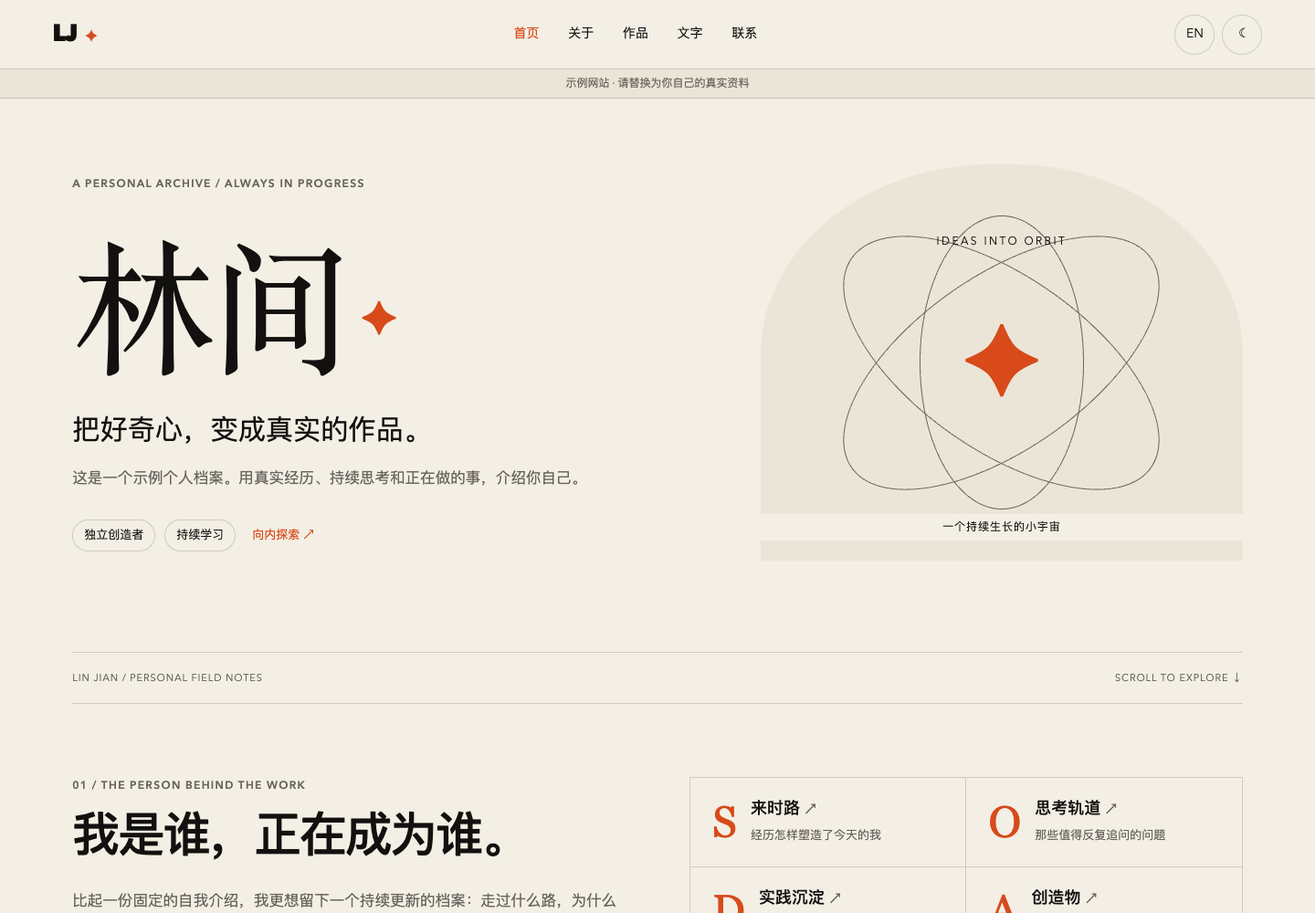
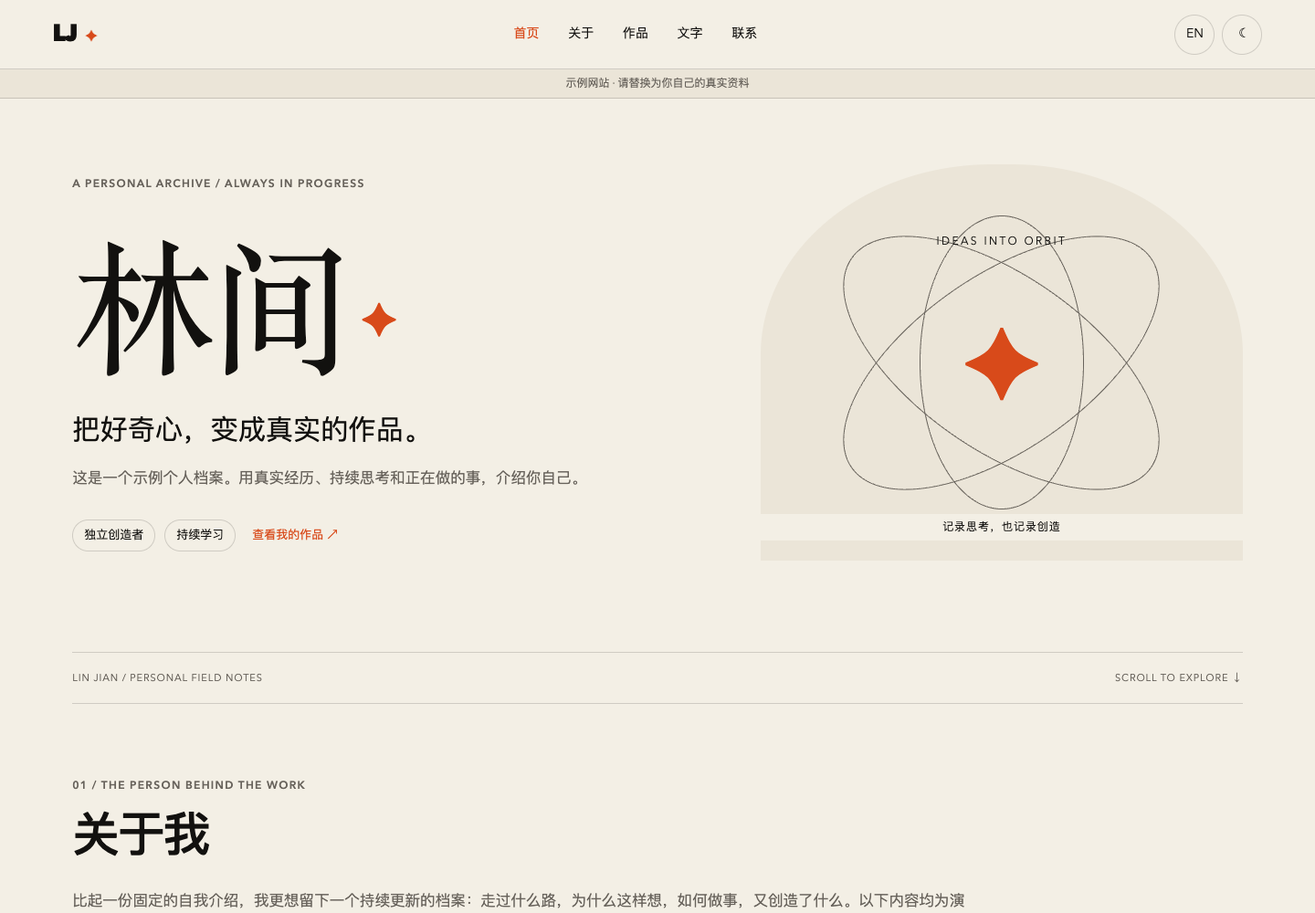
去掉默认网站的 SODA 品牌入口，改为通用介绍作品文章布局

diff --git a/assets/starter/src/app/globals.css b/assets/starter/src/app/globals.css
@@ -4,7 +4,7 @@ html.night{--paper:#090a0b;--panel:#17191b;--ink:#f1eee7;--muted:#b7b0a5;--line:
 *{box-sizing:border-box}html{scroll-behavior:smooth;scroll-padding-top:100px}body{margin:0;background:var(--paper);color:var(--ink);font:var(--body)/1.75 "Avenir Next","Helvetica Neue","PingFang SC","Microsoft YaHei",sans-serif}a{color:inherit;text-decoration:none}button{font:inherit;color:inherit;cursor:pointer;background:none;border:0}a,button{-webkit-tap-highlight-color:transparent}a:focus-visible,button:focus-visible{outline:2px solid var(--accent);outline-offset:5px}::selection{background:#d84a1a33}img{display:block;max-width:100%}h1,h2,h3,p,figure{margin:0}h1,h2,h3{line-height:1.25;overflow-wrap:anywhere}h2{font-size:var(--section);font-weight:500;letter-spacing:-.04em}h3{font-size:clamp(20px,1.7vw,27px);font-weight:500}p{overflow-wrap:anywhere}.muted{color:var(--muted)}.eyebrow{font-size:12px;letter-spacing:.11em;font-weight:600;color:var(--muted);line-height:1.5}.site{max-width:1520px;margin:auto}.skip{position:fixed;z-index:20;top:-100px;left:20px;padding:12px;background:var(--ink);color:var(--paper)}.skip:focus{top:10px}
 .nav{position:sticky;top:0;z-index:5;display:flex;align-items:center;gap:28px;min-height:76px;padding:8px clamp(20px,4vw,64px);border-bottom:1px solid var(--line);background:var(--paper)}.brand{font-size:26px;font-weight:800;letter-spacing:-.05em;white-space:nowrap}.brand span{font-size:17px;color:var(--accent);margin-left:9px}.nav nav{display:flex;flex:1;justify-content:center;gap:clamp(12px,2.2vw,34px);font-size:14px}.nav nav a{padding:8px 0}.nav a[aria-current],.nav a:hover{color:var(--accent)}.nav-actions{display:flex;gap:8px}.nav-actions button{min-width:44px;min-height:44px;border:1px solid var(--line);border-radius:50%;font-size:14px}.nav-actions button[aria-pressed=true]{color:var(--accent)}.demo-note{padding:5px 20px;text-align:center;font-size:12px;background:var(--panel);color:var(--muted);border-bottom:1px solid var(--line)}
 .hero{position:relative;display:grid;grid-template-columns:1.15fr .85fr;gap:40px;padding:72px clamp(24px,5.5vw,88px) 0;min-height:650px}.hero-copy{align-self:center;min-width:0;padding:12px 0 70px}.hero h1{font-family:var(--serif);font-size:clamp(74px,11vw,166px);font-weight:500;line-height:1.2;letter-spacing:-.06em;margin:24px 0;overflow-wrap:anywhere}.hero-star{display:inline-block;font-family:serif;font-size:.32em;color:var(--accent);vertical-align:middle;margin-left:18px}.hero-tagline{font-size:clamp(22px,2.1vw,32px);line-height:1.6;margin-bottom:14px}.hero-tags{display:flex;flex-wrap:wrap;align-items:center;gap:10px;margin-top:30px;font-size:13px}.hero-tags>span{border:1px solid var(--line);border-radius:100px;padding:5px 12px}.hero-tags>a{color:var(--accent);margin-left:8px}.hero-art{position:relative;min-height:400px;align-self:stretch;background:var(--panel);border-radius:48% 48% 0 0;overflow:hidden;margin:0 0 60px}.hero-art>img{object-fit:cover}.hero-art figcaption{position:absolute;bottom:22px;width:100%;text-align:center;font-size:12px;letter-spacing:.08em;background:var(--paper);padding:4px 10px}.orbit-art{position:absolute;inset:0;display:grid;place-items:center;overflow:hidden}.orbit-art i{position:absolute;width:76%;height:44%;border:1px solid var(--muted);border-radius:50%;transform:rotate(-35deg)}.orbit-art i:nth-child(2){transform:rotate(35deg)}.orbit-art i:nth-child(3){height:74%;width:34%;transform:rotate(0)}.orbit-art>span{font-size:110px;color:var(--accent);z-index:1;font-family:serif}.orbit-art small{position:absolute;top:17%;font-size:12px;letter-spacing:.2em}.hero-foot{grid-column:1/-1;display:flex;justify-content:space-between;gap:20px;align-items:center;border-top:1px solid var(--line);padding:18px 0;font-size:11px;color:var(--muted);letter-spacing:.08em}
-.section{margin:0 clamp(24px,5.5vw,88px);padding:80px 0;border-top:1px solid var(--line);scroll-margin-top:80px}.section-heading{display:flex;align-items:end;justify-content:space-between;gap:24px;margin-bottom:38px}.section-heading .eyebrow{margin-bottom:15px}.section-heading>a{font-size:13px;flex-shrink:0;color:var(--muted)}.section-heading h1{font-size:var(--section);font-weight:500}.about{display:grid;grid-template-columns:1fr 1fr;gap:70px}.about .section-heading{margin-bottom:22px}.about-text{color:var(--muted);line-height:1.95}.room-grid{display:grid;grid-template-columns:1fr 1fr;border-top:1px solid var(--line);border-left:1px solid var(--line)}.room-gate{padding:23px 24px;min-width:0;border-right:1px solid var(--line);border-bottom:1px solid var(--line);display:flex;gap:15px;align-items:center;transition:background .2s}.room-gate:hover{background:var(--panel)}.room-letter{font-family:Georgia,serif;font-size:48px;line-height:1;color:var(--accent)}.room-gate h3{font-size:18px}.room-gate h3 span{font-size:14px;color:var(--muted)}.room-gate p{font-size:13px;color:var(--muted);margin-top:7px;line-height:1.6}.projects{display:grid;gap:32px}.project{display:grid;grid-template-columns:.8fr 1.7fr;gap:36px;padding-bottom:32px;border-bottom:1px solid var(--line)}.project:last-child{padding-bottom:0;border-bottom:0}.project-cover{position:relative;min-height:220px;background:var(--panel)}.project-cover img{object-fit:cover}.project-placeholder{position:absolute;inset:0;display:flex;align-items:center;justify-content:center;overflow:hidden;border:1px solid var(--line)}.project-placeholder span{font-family:Georgia,serif;font-size:100px;color:var(--muted);opacity:.22}.project-placeholder i{font-size:88px;color:var(--accent);font-style:normal;position:absolute;right:22px;bottom:2px}.project-body{align-self:center;min-width:0}.project h3{margin:9px 0 13px}.project h3 a:hover{color:var(--accent)}.project-body>p:not(.eyebrow){color:var(--muted)}dl{display:grid;grid-template-columns:max-content 1fr;gap:8px 24px;font-size:14px;margin:20px 0 0}dt{color:var(--muted)}dd{margin:0;min-width:0;overflow-wrap:anywhere}
+.section{margin:0 clamp(24px,5.5vw,88px);padding:80px 0;border-top:1px solid var(--line);scroll-margin-top:80px}.section-heading{display:flex;align-items:end;justify-content:space-between;gap:24px;margin-bottom:38px}.section-heading .eyebrow{margin-bottom:15px}.section-heading>a{font-size:13px;flex-shrink:0;color:var(--muted)}.section-heading h1{font-size:var(--section);font-weight:500}.about{display:grid;grid-template-columns:1fr 1fr;gap:70px}.about .section-heading{margin-bottom:22px}.about--intro{display:block}.about--intro .about-text{max-width:1000px}.about-text{color:var(--muted);line-height:1.95}.room-grid{display:grid;grid-template-columns:1fr 1fr;border-top:1px solid var(--line);border-left:1px solid var(--line)}.room-gate{padding:23px 24px;min-width:0;border-right:1px solid var(--line);border-bottom:1px solid var(--line);display:flex;gap:15px;align-items:center;transition:background .2s}.room-gate:hover{background:var(--panel)}.room-letter{font-family:Georgia,serif;font-size:48px;line-height:1;color:var(--accent)}.room-gate h3{font-size:18px}.room-gate h3 span{font-size:14px;color:var(--muted)}.room-gate p{font-size:13px;color:var(--muted);margin-top:7px;line-height:1.6}.projects{display:grid;gap:32px}.project{display:grid;grid-template-columns:.8fr 1.7fr;gap:36px;padding-bottom:32px;border-bottom:1px solid var(--line)}.project:last-child{padding-bottom:0;border-bottom:0}.project-cover{position:relative;min-height:220px;background:var(--panel)}.project-cover img{object-fit:cover}.project-placeholder{position:absolute;inset:0;display:flex;align-items:center;justify-content:center;overflow:hidden;border:1px solid var(--line)}.project-placeholder span{font-family:Georgia,serif;font-size:100px;color:var(--muted);opacity:.22}.project-placeholder i{font-size:88px;color:var(--accent);font-style:normal;position:absolute;right:22px;bottom:2px}.project-body{align-self:center;min-width:0}.project h3{margin:9px 0 13px}.project h3 a:hover{color:var(--accent)}.project-body>p:not(.eyebrow){color:var(--muted)}dl{display:grid;grid-template-columns:max-content 1fr;gap:8px 24px;font-size:14px;margin:20px 0 0}dt{color:var(--muted)}dd{margin:0;min-width:0;overflow-wrap:anywhere}
 .article-list>article{display:grid;grid-template-columns:42px 1fr 44px;gap:20px;padding:28px 0;border-top:1px solid var(--line)}.article-index{font-size:13px;color:var(--muted);padding-top:5px}.article-list .eyebrow{margin-bottom:7px}.article-list h3{margin-bottom:9px}.article-list h3 button{text-align:left;font:inherit;padding:0;min-height:44px}.article-list h3 button:hover{color:var(--accent)}.article-list article>a{display:grid;place-items:center;align-self:center;min-height:44px;border:1px solid var(--line);border-radius:50%}.article-list article .muted{font-size:15px}.contact{display:grid;grid-template-columns:1fr 1fr;gap:50px}.contact h2{font-family:Georgia,serif;font-size:clamp(60px,7vw,110px);letter-spacing:-.06em;margin:16px 0}.contact h2 span{font-size:.5em;color:var(--accent);margin-left:20px;vertical-align:middle}.contact p:not(.eyebrow){color:var(--muted)}.contact-links{display:flex;flex-direction:column;justify-content:center;gap:12px;align-items:start;min-width:0}.contact-links>a{border-bottom:1px solid var(--line);padding:8px 0;overflow-wrap:anywhere}.contact-links>a:hover{color:var(--accent)}.footer{margin:0 clamp(24px,5.5vw,88px);border-top:1px solid var(--line);padding:24px 0;display:flex;justify-content:space-between;gap:24px;font-size:12px;color:var(--muted)}
 .archive{min-height:75vh;border-top:0;padding-top:40px}.back{display:inline-block;color:var(--muted);font-size:13px;padding:6px 0;margin-bottom:40px}.archive-intro{color:var(--muted);margin-top:-16px;margin-bottom:30px}.room-nav{display:flex;flex-wrap:wrap;gap:10px;margin:0 0 44px}.room-nav>a,.filters>button{font-size:13px;border:1px solid var(--line);border-radius:100px;padding:8px 15px;min-height:44px}.room-nav>[aria-current=page],.filters>[aria-pressed=true]{border-color:var(--accent);color:var(--accent)}.filters{display:flex;flex-wrap:wrap;gap:10px;margin-bottom:24px}.story-list{max-width:800px}.story-list>section{border-top:1px solid var(--line);padding:35px 0}.story-list h2{font-size:28px;margin:15px 0}.story-list section>p:last-child{color:var(--muted);white-space:pre-line}.empty{padding:35px 0;color:var(--muted);font-family:var(--serif);font-size:22px}.reading{max-width:760px;margin:auto}.reading h1{font-family:var(--serif);font-size:clamp(30px,3vw,46px);font-weight:500;line-height:1.5;margin-bottom:22px}.reading h2{font-size:25px;line-height:1.5;margin:32px 0 16px}.reading p{line-height:1.95;margin-bottom:22px;white-space:pre-line}.reading .deck{font-size:20px;color:var(--muted);border-bottom:1px solid var(--line);padding-bottom:24px;margin-bottom:30px}.reading>a{font-size:14px;color:var(--accent);display:inline-block;margin-top:24px}
 .reader{border:1px solid var(--line);padding:0;background:var(--paper);color:var(--ink);width:min(900px,calc(100% - 32px));max-width:none;height:min(85dvh,900px);max-height:calc(100dvh - 32px)}.reader::backdrop{background:rgba(0,0,0,.65)}.reader.expanded{width:calc(100% - 32px);height:calc(100dvh - 32px)}.reader-inner{display:flex;flex-direction:column;height:100%}.reader header{display:flex;align-items:center;justify-content:space-between;gap:16px;border-bottom:1px solid var(--line);padding:12px 22px;font-size:11px;letter-spacing:.08em}.reader header>div{display:flex;gap:5px}.reader header button{width:44px;height:44px;border:1px solid var(--line);font-size:23px}.reader-scroll{overflow-y:auto;padding:44px clamp(22px,5vw,70px);flex:1;min-height:0;overscroll-behavior:contain}.reader .reading{padding-bottom:40px}

diff --git a/assets/starter/src/components/Site.tsx b/assets/starter/src/components/Site.tsx
@@ -43,7 +43,7 @@ export function Site({ view = 'home', slug = '' }: { view?: string; slug?: strin
     try { localStorage.setItem('personal-theme', next ? 'night' : 'light'); } catch { /* Optional persistence. */ }
     window.dispatchEvent(new Event('personal-preferences'));
   }
-  const showProjects = activeRooms.some(r => r.id === 'artifact');
+  const showProjects = site.projects.length > 0;
   const showWriting = activeArticles.length > 0;
 
   return <div className="site" data-lang={lang} style={{ '--accent': site.accent } as CSSProperties}>
@@ -71,17 +71,17 @@ export function Site({ view = 'home', slug = '' }: { view?: string; slug?: strin
             <h1>{lang === 'zh' ? site.name : site.nameEn}<span className="hero-star" aria-hidden="true">✦</span></h1>
             <p className="hero-tagline">{t(site.tagline, lang)}</p>
             <p className="muted">{t(site.intro, lang)}</p>
-            <div className="hero-tags">{site.roles.map((r, i) => <span key={i}>{t(r, lang)}</span>)}<Link href={showProjects ? '#building' : '#about'}>{label('向内探索', 'Explore the archive')} ↗</Link></div>
+            <div className="hero-tags">{site.roles.map((r, i) => <span key={i}>{t(r, lang)}</span>)}<Link href={showProjects ? '#building' : '#about'}>{showProjects ? label('查看我的作品', 'Explore my work') : label('认识我', 'About me')} ↗</Link></div>
           </div>
           <figure className="hero-art">
             {site.portrait ? <Image src={site.portrait} alt={t(site.portraitAlt, lang)} fill sizes="(max-width: 700px) 90vw, 42vw" priority /> : <div className="orbit-art" role="img" aria-label={label('代表探索与成长的抽象轨道', 'Abstract orbits representing growth and exploration')}><i /><i /><i /><span>✦</span><small>IDEAS INTO ORBIT</small></div>}
-            <figcaption>{label('一个持续生长的小宇宙', 'A small universe, always growing')}</figcaption>
+            <figcaption>{label('记录思考，也记录创造', 'Notes on thinking and making')}</figcaption>
           </figure>
           <div className="hero-foot"><span>{site.nameEn} / PERSONAL FIELD NOTES</span><span>SCROLL TO EXPLORE ↓</span></div>
         </section>
-        <section className="section about" id="about">
-          <div><Heading kicker="01 / THE PERSON BEHIND THE WORK" title={label('我是谁，正在成为谁。', 'The person behind the work.')} /><p className="about-text">{t(site.about, lang)}</p></div>
-          <div className="room-grid">{activeRooms.map(r => <Link className="room-gate" href={`/universe/${r.id}`} key={r.id}><span className="room-letter">{r.letter}</span><div><h3>{t(r.title, lang)} <span aria-hidden="true">↗</span></h3><p>{t(r.description, lang)}</p></div></Link>)}</div>
+        <section className={`section about${activeRooms.length ? '' : ' about--intro'}`} id="about">
+          <div><Heading kicker="01 / THE PERSON BEHIND THE WORK" title={label('关于我', 'About me')} /><p className="about-text">{t(site.about, lang)}</p></div>
+          {activeRooms.length > 0 && <div className="room-grid">{activeRooms.map(r => <Link className="room-gate" href={`/universe/${r.id}`} key={r.id}>{r.letter && <span className="room-letter">{r.letter}</span>}<div><h3>{t(r.title, lang)} <span aria-hidden="true">↗</span></h3><p>{t(r.description, lang)}</p></div></Link>)}</div>}
         </section>
         {showProjects && <section className="section" id="building"><Heading kicker="02 / IDEAS MADE TANGIBLE" title={label('正在创造', 'What I am making')} link="/works" more={label('查看全部作品', 'All projects')} /><Projects lang={lang} /></section>}
         {showWriting && <section className="section"><Heading kicker="03 / THINKING IN PUBLIC" title={label('表达与实践', 'Thoughts & practice')} link="/writing" more={label('进入文字档案', 'Browse the archive')} /><ArticleList entries={activeArticles.slice(0, 3)} lang={lang} open={setSelected} /></section>}
@@ -90,7 +90,7 @@ export function Site({ view = 'home', slug = '' }: { view?: string; slug?: strin
         <Link className="back" href="/">← {label('回到首页', 'Back home')}</Link>
         <Heading primary kicker={room ? `${room.letter} / PERSONAL UNIVERSE` : 'THE ARCHIVE'} title={view === 'article' && entry ? t(entry.title, lang) : room ? t(room.title, lang) : view === 'works' ? label('作品与项目', 'Works & projects') : label('文字档案', 'Writing archive')} />
         {room && <p className="archive-intro">{t(room.description, lang)}</p>}
-        <nav className="room-nav" aria-label={label('档案房间', 'Archive rooms')}>{activeRooms.map(r => <Link href={`/universe/${r.id}`} aria-current={view === r.id ? 'page' : undefined} key={r.id}>{r.letter} · {t(r.title, lang)}</Link>)}</nav>
+        {activeRooms.length > 0 && <nav className="room-nav" aria-label={label('档案房间', 'Archive rooms')}>{activeRooms.map(r => <Link href={`/universe/${r.id}`} aria-current={view === r.id ? 'page' : undefined} key={r.id}>{r.letter ? `${r.letter} · ` : ''}{t(r.title, lang)}</Link>)}</nav>}
         {(view === 'works' || view === 'artifact') && <Projects lang={lang} />}
         {view === 'story' && <div className="story-list">{site.chapters.map((c, i) => <section key={i}><p className="eyebrow">{c.period}</p><h2>{t(c.title, lang)}</h2><p>{t(c.body, lang)}</p></section>)}{site.chapters.length === 0 && <Empty lang={lang} />}</div>}
         {['writing', 'orbit', 'digest'].includes(view) && <><div className="filters" role="group" aria-label={label('按主题筛选', 'Filter by topic')}><button type="button" aria-pressed={filter === 'all'} onClick={() => setFilter('all')}>{label('全部', 'All')}</button>{categories.map(c => <button key={c} type="button" aria-pressed={filter === c} onClick={() => setFilter(c)}>{c}</button>)}</div><ArticleList entries={articles} lang={lang} open={setSelected} /></>}
@@ -126,5 +126,5 @@ function Reader({ entry, lang, close }: { entry: Entry; lang: Lang; close: () =>
     node?.showModal(); document.body.style.overflow = 'hidden';
     return () => { node?.close(); document.body.style.overflow = previousOverflow; previousFocus?.focus(); };
   }, []);
-  return <dialog ref={dialog} className={`reader ${expanded ? 'expanded' : ''}`} aria-labelledby="reader-title" onCancel={e => { e.preventDefault(); close(); }} onClick={e => { if (e.target === e.currentTarget) close(); }}><div className="reader-inner"><header><span>PERSONAL NOTE / {entry.room.toUpperCase()}</span><div><button type="button" onClick={() => setExpanded(!expanded)} aria-label={pick(lang, expanded ? '退出全屏阅读' : '展开全屏阅读', expanded ? 'Exit full-screen reading' : 'Expand reading')}>{expanded ? '↙' : '↗'}</button><button type="button" autoFocus onClick={close} aria-label={pick(lang, '关闭文章', 'Close article')}>×</button></div></header><div className="reader-scroll"><article className="reading"><h1 id="reader-title">{t(entry.title, lang)}</h1><p className="deck">{t(entry.summary, lang)}</p><ArticleBody entry={entry} lang={lang} /><Link href={`/writing/${entry.slug}`}>{pick(lang, '独立文章链接', 'Article permalink')} ↗</Link></article></div></div></dialog>;
+  return <dialog ref={dialog} className={`reader ${expanded ? 'expanded' : ''}`} aria-labelledby="reader-title" onCancel={e => { e.preventDefault(); close(); }} onClick={e => { if (e.target === e.currentTarget) close(); }}><div className="reader-inner"><header><span>PERSONAL NOTE / {t(entry.category, lang)}</span><div><button type="button" onClick={() => setExpanded(!expanded)} aria-label={pick(lang, expanded ? '退出全屏阅读' : '展开全屏阅读', expanded ? 'Exit full-screen reading' : 'Expand reading')}>{expanded ? '↙' : '↗'}</button><button type="button" autoFocus onClick={close} aria-label={pick(lang, '关闭文章', 'Close article')}>×</button></div></header><div className="reader-scroll"><article className="reading"><h1 id="reader-title">{t(entry.title, lang)}</h1><p className="deck">{t(entry.summary, lang)}</p><ArticleBody entry={entry} lang={lang} /><Link href={`/writing/${entry.slug}`}>{pick(lang, '独立文章链接', 'Article permalink')} ↗</Link></article></div></div></dialog>;
 }

diff --git a/assets/starter/src/app/opengraph-image.tsx b/assets/starter/src/app/opengraph-image.tsx
@@ -4,5 +4,5 @@ export const alt = `${site.nameEn} / Personal archive`;
 export const size = { width: 1200, height: 630 };
 export const contentType = 'image/png';
 export default function Image() {
-  return new ImageResponse(<div style={{ width: '100%', height: '100%', background: '#f3efe5', color: '#12110f', display: 'flex', flexDirection: 'column', justifyContent: 'space-between', padding: 72 }}><div style={{ display: 'flex', fontSize: 24, letterSpacing: 5 }}>PERSONAL ARCHIVE / ALWAYS IN PROGRESS</div><div style={{ display: 'flex', fontSize: 106, fontWeight: 700, color: site.accent }}>{site.nameEn}</div><div style={{ display: 'flex', fontSize: 30 }}>STORY / IDEAS / PRACTICE / WORK</div></div>, size);
+  return new ImageResponse(<div style={{ width: '100%', height: '100%', background: '#f3efe5', color: '#12110f', display: 'flex', flexDirection: 'column', justifyContent: 'space-between', padding: 72 }}><div style={{ display: 'flex', fontSize: 24, letterSpacing: 5 }}>PERSONAL ARCHIVE / ALWAYS IN PROGRESS</div><div style={{ display: 'flex', fontSize: 106, fontWeight: 700, color: site.accent }}>{site.nameEn}</div><div style={{ display: 'flex', fontSize: 30 }}>WORK / WRITING / PERSONAL NOTES</div></div>, size);
 }

diff --git a/assets/starter/src/lib/content.ts b/assets/starter/src/lib/content.ts
@@ -18,7 +18,8 @@ export const site = profile as SiteProfile;
 export const t = (copy: Copy, lang: Lang) => copy[lang] || copy[site.defaultLang as Lang];
 export const pick = (lang: Lang, zh: string, en: string) => lang === 'zh' ? zh : en;
 export const activeRooms = site.rooms.filter(room => room.enabled);
-export const activeArticles = site.articles.filter(article => activeRooms.some(room => room.id === article.room));
+// 普通文章独立于可选档案。只有显式禁用的档案才隐藏其关联内容。
+export const activeArticles = site.articles.filter(article => !site.rooms.some(room => room.id === article.room && !room.enabled));
 export function metadataFor(title: string, description: string, route: string): Metadata {
   const url = site.siteUrl ? site.siteUrl.replace(/\/$/, '') + route : undefined;
   return {

diff --git a/assets/starter/src/app/[section]/page.tsx b/assets/starter/src/app/[section]/page.tsx
@@ -1,8 +1,8 @@
 import type { Metadata } from 'next';
 import { notFound } from 'next/navigation';
 import { Site } from '@/components/Site';
-import { activeArticles, activeRooms, metadataFor, site, t, type Lang } from '@/lib/content';
-const sections = [ ...(activeRooms.some(r => r.id === 'artifact') ? ['works'] : []), ...(activeArticles.length ? ['writing'] : []) ];
+import { activeArticles, metadataFor, site, t, type Lang } from '@/lib/content';
+const sections = ['works', ...(activeArticles.length ? ['writing'] : [])];
 export function generateStaticParams() { return sections.map(section => ({ section })); }
 export async function generateMetadata({ params }: { params: Promise<{ section: string }> }): Promise<Metadata> {
   const { section } = await params;

diff --git a/assets/starter/src/app/sitemap.ts b/assets/starter/src/app/sitemap.ts
@@ -2,6 +2,6 @@ import type { MetadataRoute } from 'next';
 import { activeArticles, activeRooms, site } from '@/lib/content';
 export default function sitemap(): MetadataRoute.Sitemap {
   if (!site.publish || !site.siteUrl) return [];
-  const routes = ['/', ...(activeRooms.some(r => r.id === 'artifact') ? ['/works'] : []), ...(activeArticles.length ? ['/writing'] : []), ...activeRooms.map(r => `/universe/${r.id}`), ...activeArticles.map(a => `/writing/${a.slug}`)];
+  const routes = ['/', '/works', ...(activeArticles.length ? ['/writing'] : []), ...activeRooms.map(r => `/universe/${r.id}`), ...activeArticles.map(a => `/writing/${a.slug}`)];
   return routes.map(route => ({ url: site.siteUrl.replace(/\/$/, '') + route }));
 }

diff --git a/README.md b/README.md
@@ -2,7 +2,7 @@
 
 用你的真实经历、思考、方法和作品，搭建一个持续更新的个人网站。
 
-从 [苏打的个人网站](https://www.sodasai.com/) 提炼，保留暖米色纸面、黑色大标题、橙色点缀与 S / O / D / A 四个档案房间。你提供个人资料，AI 使用这个 Skill 生成可以独立运行的网站。
+从 [苏打的个人网站](https://www.sodasai.com/) 提炼，保留暖米色纸面、黑色大标题、橙色点缀与杂志式排版。你提供个人资料，AI 使用这个 Skill 生成可以独立运行的网站。原作者的 S / O / D / A 品牌入口不会出现在默认界面中。
 
 ## 默认长什么样
 
@@ -10,14 +10,18 @@
 
 ![默认桌面界面](assets/previews/default-desktop.png)
 
+[查看从顶部到底部的完整桌面长图](assets/previews/default-desktop-full.png)
+
 <details>
 <summary>查看手机首屏</summary>
 
 <img src="assets/previews/default-mobile.png" width="320" alt="默认手机界面" />
 
+[查看完整手机长图](assets/previews/default-mobile-full.png)
+
 </details>
 
-首页顺序为：个人首屏 → 关于我与档案入口 → 作品 → 文章 → 联系。四个房间分别记录经历、观点、实践方法和创造物，可以改名或隐藏。
+首页从上到下为：**个人首屏 → 关于我 → 作品 → 文章 → 联系**。没有作品或文章时，对应首页模块不展示；不用凑齐四个主题或房间。
 
 ## 安装
 
@@ -37,7 +41,7 @@ npx skills add sucrush912-commits/soda-personal-site --agent codex --yes
 
 也可以把本仓库链接交给能读取 GitHub、操作本地文件的 AI，让它读取 [SKILL.md](SKILL.md) 和附带模板后开始。仅支持聊天、不能写文件或运行命令的客户端只能提供方案。
 
-默认保留截图中的设计方向。你可以要求换配色、字体、房间名称或布局。AI 应使用你愿意公开的真实资料，材料不足时保留空状态；不会替你编造履历、客户评价或成绩。
+默认保留截图中的设计方向。你可以要求换配色、字体、栏目名称或布局。AI 应使用你愿意公开的真实资料，材料不足时保留空状态；不会替你编造履历、客户评价或成绩。
 
 ## 包含什么
 
@@ -68,7 +72,7 @@ npm run dev
 
 ## 验证
 
-生成器 5 项测试通过；起步模板通过 lint、类型检查、生产构建和 72 项浏览器检查，覆盖桌面/手机视口、中英文、明暗主题、路由和文章阅读。公开后的远程安装会在隔离目录中核对资源；验证不代替使用者对自己内容和发布环境的验收。
+生成器 7 项测试通过，覆盖默认不带原作者品牌房间、可选单个档案、防覆盖与链接校验；起步模板通过 lint、类型检查和生产构建。浏览器检查覆盖桌面/手机视口、中英文、明暗主题、路由和文章阅读。公开后的远程安装会在隔离目录中核对资源；验证不代替使用者对自己内容和发布环境的验收。
 
 维护者可运行：
 

diff --git a/references/design-and-origin.md b/references/design-and-origin.md
@@ -4,7 +4,11 @@
 
 这是从现有个人站提炼的轻量起步实现，不是原站完整源码镜像或像素级复刻。内容架构与基础设计变量来自来源站的产品文档、主题规范、排版规范和实际代码；未打包原始内容与素材。
 
-## 保留的结构
+## 提炼后的默认结构
+
+默认首页是「个人首屏 → 关于我 → 作品 → 文章 → 联系」。只保留可复用的视觉与阅读体验，不把原作者的 S/O/D/A、品牌入口或四房间框架放进使用者的网站。
+
+## 原站可选参考
 
 「经历塑造观点 → 观点指导方法 → 方法沉淀作品」是一条可以解释个人发展过程的路径。
 
@@ -15,14 +19,14 @@
 | Digest / 实践沉淀 | 你怎么做事？ | 做法、实验、复盘与限制 |
 | Artifact / 创造物 | 你做出了什么？ | 作品、产品、项目、演示与证据 |
 
-这四个入口不要求同等内容量。作家、摄影师、工程师、研究者都可以按自己材料改名或隐藏部分房间。
+这四个入口仅解释原站的结构来源，不是默认输出。`rooms` 默认为空，作品与文章独立展示；只有使用者明确要求独立档案时才按需添加一项或多项，不要求凑齐四项。
 
 ## 视觉基础
 
 - 浅色纸面 `#f3efe5`，次级纸面 `#ebe5d8`，深墨 `#12110f`，点缀橙 `#d84a1a`。
 - 深色底 `#090a0b`，浅墨 `#f1eee7`，次级文字要保持对比；主题必须覆盖所有页面和弹窗。
 - 展示名使用衬线字体与较大字号；正文用系统无衬线字体，避免第三方字体请求。普通章节标题约 32–52px，正文至少 16px，标注不低于 12px。
-- 用留白、网格与细线划分段落，避免每段都套圆角卡片。四个房间是入口，作品是证据，文字是持续记录。
+- 用留白、网格与细线划分段落，避免每段都套圆角卡片。以个人介绍、作品和文字组织阅读，不复用原作者的品牌入口。
 - 没有授权头像时，显示 CSS 抽象轨道；没有作品图片时，使用编号式构图。不能拿原作者肖像代替用户。
 
 ## 从原站修复中继承的约束

diff --git a/assets/starter/README.md b/assets/starter/README.md
@@ -1,6 +1,6 @@
 # 我的个人档案网站
 
-从 SODA 个人网站提炼的轻量起步模板。保留暖纸面、橙色点缀、杂志排版，以及「经历 → 思考 → 方法 → 作品」四个档案房间。内容、图片和联系方式由站长自行提供。
+从苏打个人网站提炼的通用起步模板。保留暖纸面、橙色点缀与杂志排版，默认首页从上到下是「个人首屏 → 关于我 → 作品 → 文章 → 联系」。原作者的 S/O/D/A 和四房间入口不出现在默认界面中。内容、图片和联系方式由站长自行提供。
 
 ## 运行
 
@@ -23,7 +23,7 @@ npm run dev
 - `accent`：六位十六进制强调色。更改后检查浅色与深色对比度。
 - `portrait`：自己的本地头像，例如 `/images/portrait.jpg`，文件放到 `public/images/portrait.jpg`。留空显示抽象轨道；不依赖在线图库。
 - `email` / `socials`：公开联系方式，留空则不生成对应链接。社交链接用 `{ "label": "GitHub", "url": "https://github.com/your-account" }`。
-- `rooms`：四个房间可以改标题与字母；`id` 保持不变。`enabled: false` 会隐藏入口，相关路由返回 404，并从文章列表与 sitemap 中排除。**此开关用于内容组织，不构成私密数据保护；请从源代码和构建输入中移除私密材料。**
+- `rooms`：默认空数组，不展示独立档案入口。只有明确需要时才添加 1–4 个档案；可选 `id` 为 `story`、`orbit`、`digest`、`artifact`，显示名自定，`letter` 可留空。显式设置 `enabled: false` 时，该档案与关联文章会隐藏并从 sitemap 移除；没有配置档案不会影响普通作品和文章。**此开关用于内容组织，不构成私密数据保护；请从源码和构建输入中移除私密材料。**
 - `chapters`：真实的成长章节，可为空。
 - `projects`：作品定位、受众、可见成果、状态、链接和图片；`url` 留空代表无公开演示，不生成假链接。
 - `articles`：`room` 取 `orbit` 或 `digest`，`slug` 唯一，正文由小节和段落组成。React 按文本渲染，不执行 HTML。

diff --git a/references/content-and-config.md b/references/content-and-config.md
@@ -23,7 +23,7 @@
 
 双语字段形如 `{ "zh": "真实中文", "en": "Faithful English" }`。翻译保留事实和语气；只有一种语言的材料可以先在两栏填相同内容。元数据以 `defaultLang` 为准，语言按钮只改变阅读偏好；如果用户要求按语言收录，另行实现独立语言 URL 与对应 SEO。
 
-房间 `id` 与文章 `slug` 用稳定英文标识；房间允许改显示名和字母。隐藏房间会从导航、列表与页面路由中移除，但不是访问控制；真正私密材料不能进入源码、静态资源或客户端配置。
+默认 `rooms: []`，不生成 S/O/D/A 或四房间入口，作品与文章照常展示。只有使用者明确需要独立档案时才添加对应项，不要求四项齐全；显示名自定，字母可留空。显式禁用某档案会隐藏其路由及关联文章。此功能不是访问控制；真正私密材料不能进入源码、静态资源或客户端配置。文章 `slug` 使用稳定英文标识。
 
 项目没有公开地址时 `url` 留空。项目截图必须脱敏且有权使用。`/images/` 仅支持本地栅格图片，禁止数据 URL、第三方追踪图片与未经审核的 SVG。邮件和链接只从明确字段生成，不执行用户输入的 HTML。
 

diff --git a/CHANGELOG.md b/CHANGELOG.md
@@ -2,6 +2,10 @@
 
 ## 2026-11-21 — 公开分发
 
+- 按用户确认去掉默认界面的 S/O/D/A 与四房间入口；首页回归个人首屏、关于、作品、文章、联系。独立档案改为可选，不要求四项齐全。
+- 作品与普通文章不再依赖房间是否存在；阅读弹窗显示文章分类，避免带出原作者框架。
+- 新增默认无品牌框架与单个可选档案的回归测试，生成器共 7 项测试。
+
 - 从个人网站提炼版本独立出一个 Skill，入口直接位于仓库根目录 `SKILL.md`。
 - 提供可运行起步模板、集中资料配置、生成器与 5 项安全测试；保留双语、全站主题、四个房间、作品和文章阅读。
 - README 提供 GitHub 安装命令、最短使用示例与真实桌面/手机截图。
